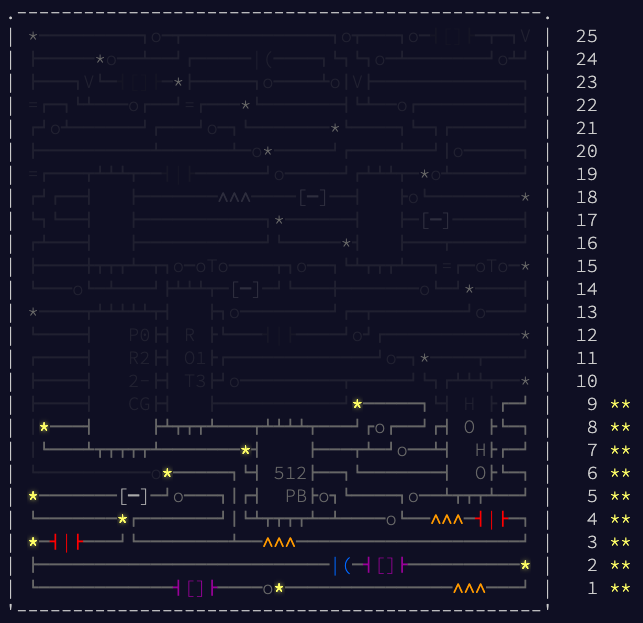
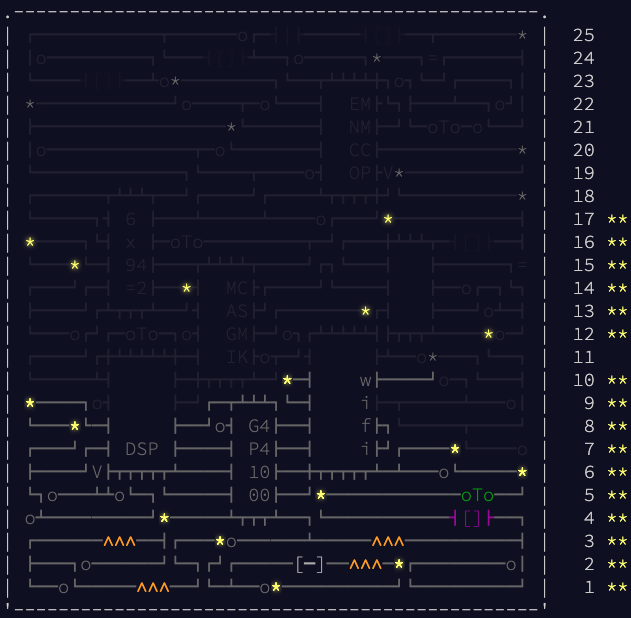
update README image + links

diff --git a/README.md b/README.md
@@ -26,6 +26,9 @@
 
 ## 2017
 ![](docs/2017.png)
+* [**Deay 17** - Spinlock](2017-12-17_spinlock)
+* [**Day 16** - Permutation Promenade](2017-12-16_permutation_promenade)
+* [**Day 15** - Dueling Generators](2017-12-15_dueling_generators)
 * [**Day 14** - Disk Defragmenter](2017-12-14_disk_defragmenter)
 * [**Day 13** - Packet Scanners](2017-12-13_packet_scanners)
 * [**Day 12** - Digital Plumber](2017-12-12_digital_plumber)
